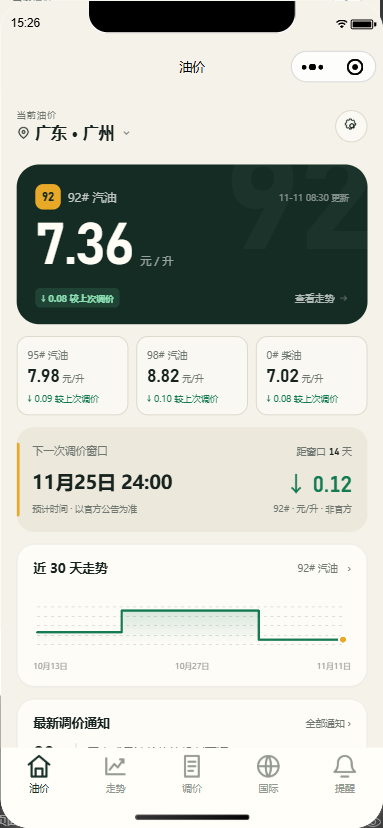
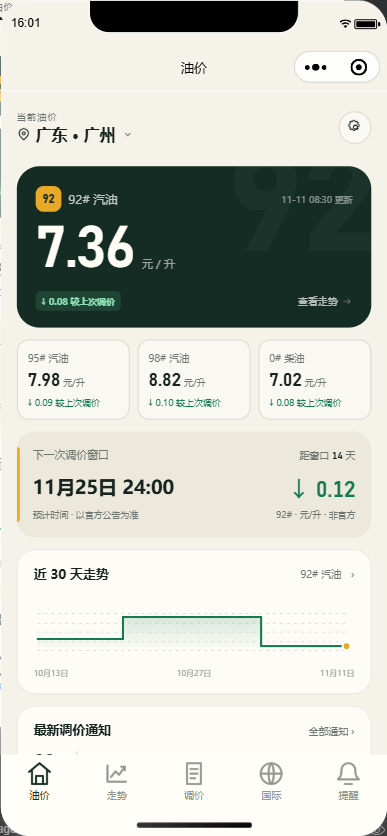
docs: 修掉文档与现状对不上的 12 处漂移
AGENTS.md：
- IDE 版本 2.01.2510290 → 2.02.2609250，自动化端口 9425 → 9421
- 共享代码真源方向写反了：真源在 data/，_shared/shared.js 是生成产物，手改会被覆盖
- 坑表里 captureScreenshot 只截 DOM 层是 2.01.x 的行为，2.02 已合成 canvas
- 图标精灵实际内联在 build-icons.js 里，design/ 下没有 SVG 精灵文件
- design/app-icon-candidates/ 目录并不存在，删掉这句
- 远端仓库已非空；补一条：git push <url> 不更新 origin/main 远程跟踪引用

README.md：订阅消息的说明改成填两处同值模板 ID；脚本清单补 verify-in-devtools.js；
「还没做的」补上已登记的 wx-server-sdk 升级与 42 处硬编码色值。

docs/verification.md 与 verify-in-devtools.js：IDE 已是 2.02，Tool.getInfo 同时返回 version 与 SDKVersion；
验证脚本只依赖 ws，miniprogram-automator 并不需要安装。

design/product-design.md：阶段状态行改为设计已定稿并实现。

顺带重出五页截图，提醒页之前内容没画全（17KB → 57KB）。

diff --git a/scripts/verify-in-devtools.js b/scripts/verify-in-devtools.js
@@ -2,13 +2,13 @@
  * 小程序验证脚本（自实现 IDE 自动化协议客户端）
  *
  * 为什么不用 miniprogram-automator：
- *   本机 IDE 版本 2.01.2510290 的 Tool.getInfo 返回 { version }，
+ *   早先 IDE 2.01.x 的 Tool.getInfo 只返回 { version }，
  *   而 automator 0.13 读的是 SDKVersion，握手阶段直接崩。
- *   协议本身很简单（{id, method, params} → {id, result}），
- *   这里直接按协议实现，稳定且不依赖版本。
+ *   现在 IDE 2.02 已同时返回 version 与 SDKVersion，但协议本身很简单
+ *   （{id, method, params} → {id, result}），自己实现更省事，也少一个依赖。
  *
  * 用法：
- *   npm i --prefix .tooling miniprogram-automator ws
+ *   npm i --prefix .tooling ws
  *   node scripts/verify-in-devtools.js
  *
  * 前置：开发者工具已登录，服务端口开启，且已用

diff --git a/AGENTS.md b/AGENTS.md
@@ -5,8 +5,8 @@
 
 ## 工具链
 
-- 微信开发者工具（IDE 2.01.2510290），直接打开仓库根目录编译；基础库 3.8.10
-- Node.js ≥ 18（脚本用），Python 3（截图合成用）
+- 微信开发者工具（IDE 2.02.2609250），直接打开仓库根目录编译；基础库 3.8.10
+- Node.js ≥ 18（脚本用），Python 3（只用于把终端字符二维码转成 PNG）
 - 根目录**没有** package.json。云函数各自带 `package.json`，依赖在开发者工具里「云端安装依赖」
 
 ## 常用命令
@@ -16,14 +16,14 @@ node scripts/lint-wxml.js          # 静态检查（有错误时 exit 1），改
 node scripts/check-modules.js      # 运行时模块 + 云函数入口加载冒烟测试，挡住「删了函数体留着引用」这类 ReferenceError
 node scripts/verify-data.js        # 数据层自检，打印算出的价格/走势/通知/行情
 node scripts/sync-cloud-shared.js  # 把 _shared/shared.js 同步到三个云函数，部署前必跑
-node scripts/build-icons.js        # 由 design/ 的 SVG 精灵重生成 assets/icons/*.png（需本机 Chrome）
+node scripts/build-icons.js        # 重生成 assets/icons/*.png（SVG 精灵内联在脚本里，需本机 Chrome）
 node scripts/preview-qr.js <appid> # 上传预览包并出扫码图（必须正式 AppID）
 ```
 
-端到端验证（需先起 IDE 自动化服务，端口 9425）：
+端到端验证（需先起 IDE 自动化服务，默认端口 9421，用 `AUTO_WS` 覆盖）：
 
 ```bash
-npm i --prefix .tooling miniprogram-automator ws
+npm i --prefix .tooling ws
 node scripts/verify-in-devtools.js   # 逐页截图 + 运行时异常捕获（2.02 的截图已含 canvas 图层）
 ```
 
@@ -59,7 +59,7 @@ node scripts/verify-in-devtools.js   # 逐页截图 + 运行时异常捕获（2.
 - **调价预测与正式结果分开呈现**，预测必须标注「非官方」
 - **采集侧解析不出结构化字段时进人工核对队列**，绝不把猜测值发布成正式结果
 - **演示数据日期整体平移**（`utils/demo-clock.js`，锚点 `config.demoAnchorDate`），保证长期打开数据仍然新鲜
-- 云函数之间不能跨目录 `require`，共享代码靠 `scripts/sync-cloud-shared.js` 复制 —— **改 `_shared/` 后必须同步**
+- 云函数之间不能跨目录 `require`，共享代码靠 `scripts/sync-cloud-shared.js` 复制 —— **真源在 `data/`，`_shared/shared.js` 是生成产物**。改完 `data/` 必须重跑同步脚本；**手改 `_shared/shared.js` 会被下次生成覆盖**
 
 ## 微信小程序特有坑（都踩过，改代码前先看）
 
@@ -71,8 +71,8 @@ node scripts/verify-in-devtools.js   # 逐页截图 + 运行时异常捕获（2.
 | `wx:for` 里写 `{{path}}` | 应为 `{{item.path}}`，否则 `switchTab` 拿到 undefined |
 | 动态 `src` 漏 `.png` 后缀 | 图标显示成白方块 |
 | 国际行情日期是 `MM-DD HH:mm:ss` | 时间轴正则要的是 `YYYY-MM-DD`，解析全返回 0 会把曲线叠成一根竖线 |
-| `App.captureScreenshot` 只截 DOM 层 | 不合成 canvas 图层，图表区空白是接口限制不是没画；判定见 `docs/verification.md` |
-| `miniprogram-automator` 0.13 与本机 IDE 不兼容 | IDE `Tool.getInfo` 返回 `{ version }`，automator 读 `SDKVersion` 直接崩；`scripts/verify-in-devtools.js` 自己实现了协议 |
+| `App.captureScreenshot` 只截 DOM 层 | **仅 2.01.x 如此**；2.02 已会合成 canvas 图层，截图里没曲线才是真没画出来。判定见 `docs/verification.md` |
+| `miniprogram-automator` 0.13 与本机 IDE 不兼容 | 2.01.x 的 `Tool.getInfo` 只返回 `{ version }`，automator 读 `SDKVersion` 直接崩；`scripts/verify-in-devtools.js` 自己实现了协议，只依赖 `ws` |
 | 自定义 tabBar 的 `position: fixed` 真机不生效 | 组件被排进文档流末尾，要滚到底才看得到；改用**原生 tabBar**：`app.json` 去掉 `"custom": true`，`list` 里配 `iconPath` / `selectedIconPath` |
 | 主包超 2MB，上传预览包被拒 | `.gitignore` 管不了上传包，要在 `project.config.json` 的 `packOptions.ignore` 里排除 `.tooling` / `docs` / `design` / `scripts` / `cloudfunctions` |
 | GitHub 密钥扫描误报小程序 AppID | AppID 是标识符不是凭据，扫的是 `wx` + 16 位十六进制；真实 AppID 放本地 `project.private.config.json`（不入库），AppSecret 永远不进代码 |
@@ -92,7 +92,8 @@ node scripts/verify-in-devtools.js   # 逐页截图 + 运行时异常捕获（2.
 - 个人单维护项目，**直接在 `main` 上提交**，不开特性分支再合并；确需分支先问
 - 提交信息用中文，描述改了什么（`fix: 修复 X` / `feat: 新增 X` / `docs: 补充 X`）
 - 远端 `origin` = `https://github.com/uwakeme/oil-trend.git`；若 443 不通可临时改用 SSH：`git@github.com:uwakeme/oil-trend.git`
-- 远端仓库目前是空的，首次提交还没推上去
+- 远端 `origin` 已有提交，用 `git push git@github.com:uwakeme/oil-trend.git main:main` 推送（443 不通时走 SSH）
+- 用 `git push <url>` 形式推送**不会更新** `origin/main` 远程跟踪引用，`git log origin/main..main` 会误报「没推上去」，以 `git ls-remote` 的实际结果为准
 - 改动前先看 `git status`，工作区经常有未提交的 WIP，**不要替用户丢弃或覆盖**
 
 ## 安全
@@ -106,6 +107,6 @@ node scripts/verify-in-devtools.js   # 逐页截图 + 运行时异常捕获（2.
 
 五个页面与三个云函数已写完并逐页验证过，当前跑的是**内置演示数据集**，真实数据源尚未接入。
 订阅消息链路还没走通到底（需正式 AppID + 模板 ID），未配置时「提醒」页要明说未配置，不假装授权成功。
-小程序图标已定为 **8-bit 像素风**：`assets/app-icon/app-icon.png`（512×512，公众平台后台上传用），5 套备选方案与提示词留在 `design/app-icon-candidates/`。tabBar 导航图标仍是细描边 SVG 风格，与像素风**尚未统一**。
+小程序图标已定为 **8-bit 像素风**：`assets/app-icon/app-icon.png`（512×512，公众平台后台上传用）。tabBar 导航图标仍是细描边 SVG 风格，与像素风**尚未统一**。
 
 项目仍在开发阶段：**历史/存量数据引发的问题不修**，只登记一行；影响当前行为的代码缺陷照修。

diff --git a/README.md b/README.md
@@ -16,7 +16,8 @@
 云函数三个（`oilApi` / `oilCollector` / `oilAlert`）也写完了，但还没部署过，
 云开发环境要在开发者工具里开通，并把 `docs/deploy.md` 里的集合建好。
 
-订阅消息这条路暂时走不通到底。模板 ID 要正式 AppID 才能申请，测试号拿不到。
+订阅消息这条路还没走通到底。模板 ID 要在公众平台申请（`subscribeTemplateIds` 与云函数
+环境变量 `OIL_SUBSCRIBE_TEMPLATE_ID` 填同一个值）。
 所以「提醒」页在没配模板时会明说「订阅消息未配置」，不会假装授权成功。
 
 ## 快速开始
@@ -107,9 +108,10 @@ oil_trend/
 node scripts/verify-data.js       # 打印数据层算出的价格、走势、通知、行情
 node scripts/lint-wxml.js         # 检查 WXML 绑定、事件、样式类、标签闭合
 node scripts/check-modules.js     # 运行时模块逐个 require 一遍，挡加载期 ReferenceError
-node scripts/build-icons.js       # 由 design/ 里的 SVG 精灵重新生成 PNG 图标
-node scripts/sync-cloud-shared.js # 把共享规则同步到三个云函数
+node scripts/build-icons.js       # 重生成 PNG 图标（SVG 精灵内联在脚本里）
+node scripts/sync-cloud-shared.js # 由 data/ 生成云函数共享代码并做一致性断言
 node scripts/preview-qr.js         # 上传预览包并生成扫码图
+node scripts/verify-in-devtools.js # 逐页截图 + 运行时异常捕获（需 IDE 自动化服务）
 ```
 
 `lint-wxml.js` 那个检查器抓出过两个真 bug：tabBar 在 `wx:for` 里写了 `{{path}}`
@@ -119,7 +121,7 @@ node scripts/preview-qr.js         # 上传预览包并生成扫码图
 `scripts/verify-in-devtools.js` 是连开发者工具模拟器逐页截图用的，需要先装依赖：
 
 ```bash
-npm i --prefix .tooling miniprogram-automator ws
+npm i --prefix .tooling ws
 node scripts/verify-in-devtools.js
 ```
 
@@ -127,3 +129,7 @@ node scripts/verify-in-devtools.js
 
 真实数据源接入，订阅消息的真机联调。
 云开发环境还要先建好集合才能跑通，步骤在 [docs/deploy.md](docs/deploy.md)。
+
+另外两处已登记待处理：三个云函数的 `wx-server-sdk` 仍是 `~2.6.3`（npm 上已是 4.x，
+升级要连 `cloud.init` / `openapi` / 数据库 API 一起回归，**接真实数据源之前必须处理**）；
+页面 WXSS 里还有 42 处硬编码色值没走 `styles/tokens.wxss` 的设计令牌（纯样式一致性，不影响功能）。

diff --git a/docs/verification.md b/docs/verification.md
@@ -13,7 +13,7 @@
 ### 2. 起自动化服务
 
 ```bash
-"<微信开发者工具目录>/cli.bat" auto --project "<项目目录>" --auto-port 9425 --lang zh
+"<微信开发者工具目录>/cli.bat" auto --project "<项目目录>" --auto-port 9421 --lang zh
 ```
 
 端口会监听一个 WebSocket。`scripts/verify-in-devtools.js` 连上去之后：
@@ -22,18 +22,20 @@
 ### 3. 跑验证
 
 ```bash
-npm i --prefix .tooling miniprogram-automator ws
+npm i --prefix .tooling ws
 node scripts/verify-in-devtools.js
 ```
 
 ## 为什么要自己写协议客户端
 
-本机 IDE 是 2.01.2510290，它的 `Tool.getInfo` 返回 `{ version }`，
+当初是 IDE 2.01.2510290，它的 `Tool.getInfo` 只返回 `{ version }`，
 而 miniprogram-automator 0.13 读的是 `SDKVersion`，握手阶段直接抛
 「Cannot read properties of undefined (reading 'split')」。
 
-协议本身很简单（`{id, method, params}` → `{id, result}`），
-`scripts/verify-in-devtools.js` 里几十行就实现了，比等 automator 适配快。
+现在 IDE 升到 2.02.2609250，`Tool.getInfo` 已经同时返回
+`{ version: '2.02.2609250', SDKVersion: '3.8.10' }`，automator 当年的握手障碍不存在了。
+但脚本仍然保留自己的协议实现 —— 几十行就够，且不受 automator 版本变动影响；
+实际依赖只有 `ws` 一个包，`miniprogram-automator` 并不需要安装。
 
 ## 截图里的 Canvas 内容（2026-11-11 更新）
 
@@ -51,7 +53,8 @@ node scripts/verify-in-devtools.js
 `ctx.getImageData()` 统计非透明像素交叉验证。
 
 跑验证脚本之前先把 IDE 自动化服务起起来：
-`cli.bat auto --project <path> --auto-port <port>`（端口用 `AUTO_WS` 环境变量覆盖）。
+`cli.bat auto --project <path> --auto-port <port>`（端口用 `AUTO_WS` 环境变量覆盖，
+脚本默认连 `ws://127.0.0.1:9421`）。
 
 两个坑：
 

diff --git a/design/product-design.md b/design/product-design.md
@@ -2,7 +2,7 @@
 
 - 版本：V0.1
 - 日期：2026-11-10
-- 当前阶段：功能与交互设计评审，尚未进入小程序编码
+- 当前阶段：设计已定稿并实现为原生小程序工程（本文件仍是设计真源）
 - 暂定名称：油势（可在开发前替换）
 - 设计目标：让用户在 5 秒内看懂本地当前油价、下一次调价方向，并能方便地设置降价提醒
 
